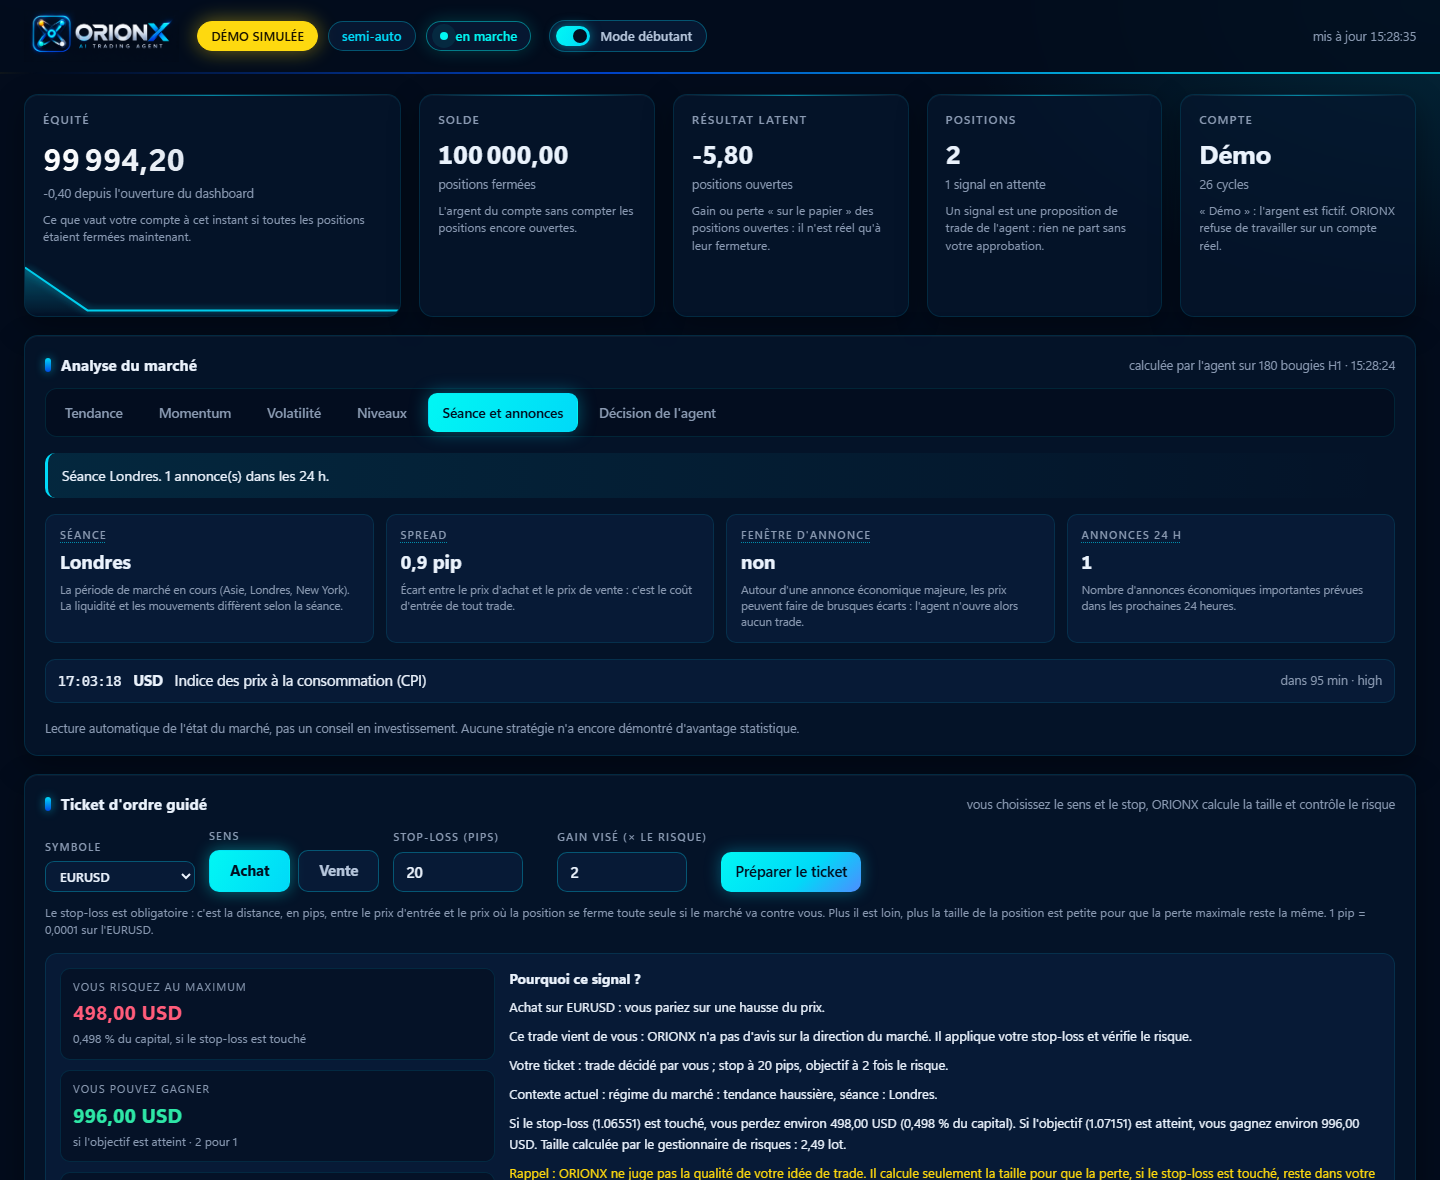
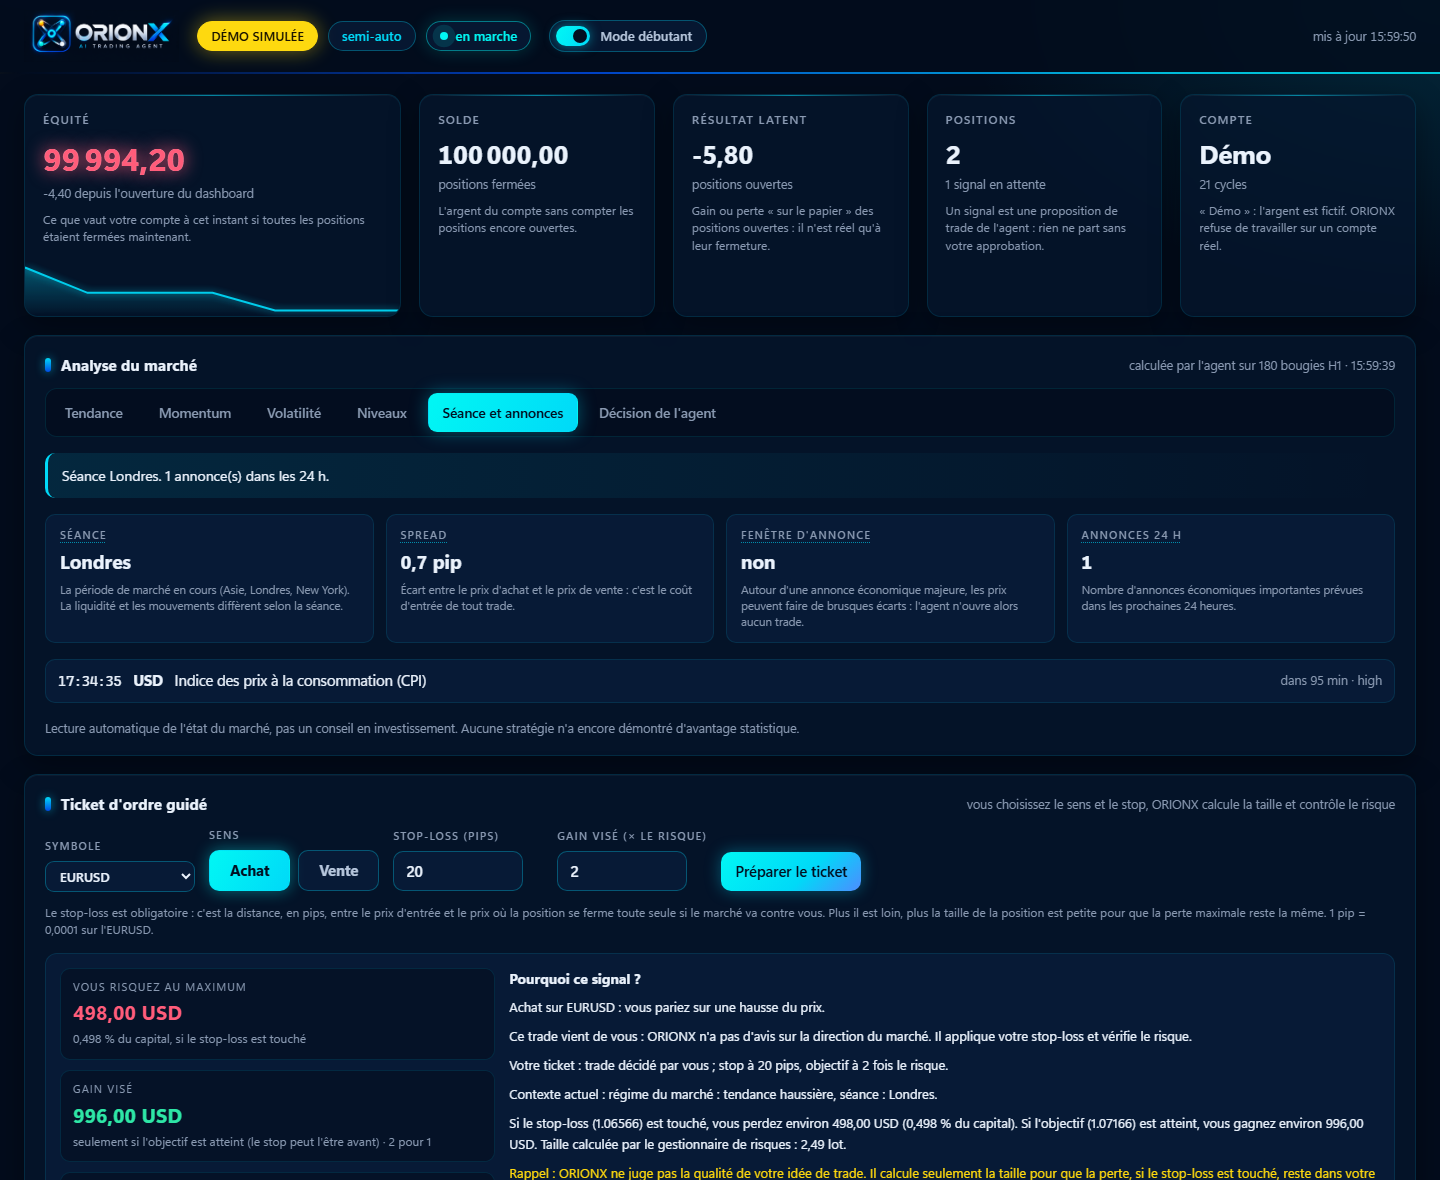
deploy: libellé « Gain visé » et captures du dashboard à jour
Contenu du dossier site/ de la branche feat/site-honnete (PR #16).

diff --git a/assets/i18n/es.js b/assets/i18n/es.js
@@ -169,7 +169,7 @@
  "analyse-du-marche-en-six": "Análisis del mercado en seis pestañas, ticket de orden guiado, señales explicadas en lenguaje sencillo con los importes en juego.",
  "analyse-du-marche-tendance-momentum": "<strong>Análisis del mercado.</strong> Tendencia, momentum, volatilidad, niveles, sesión y decisión del agente: una lectura del estado del mercado, nunca un consejo.",
  "ticket-d-ordre-guide-vous": "<strong>Ticket de orden guiado.</strong> Usted elige el sentido y el stop; ORIONX calcula el tamaño, muestra lo que arriesga y verifica sus límites.",
- "signaux-expliques-pourquoi-ce-signal": "<strong>Señales explicadas.</strong> Por qué esta señal, cuánto arriesga, cuánto puede ganar y el veredicto del gestor de riesgos.",
+ "signaux-expliques-pourquoi-ce-signal": "<strong>Señales explicadas.</strong> Por qué esta señal, lo máximo que puede perder, la ganancia objetivo si sale bien (nunca garantizada) y el veredicto del gestor de riesgos.",
  "donnees-de-demonstration-simulees-le": "Datos de demostración simulados. El panel está disponible por ahora solo en francés.",
  "comment-ca-marche": "Cómo funciona",
  "trois-etapes-zero-boite-noire": "Tres pasos, <span class=\"grad\">cero caja negra</span>.",

diff --git a/assets/i18n/en.js b/assets/i18n/en.js
@@ -169,7 +169,7 @@
  "analyse-du-marche-en-six": "Market analysis in six tabs, guided order ticket, signals explained in plain language with the amounts at stake.",
  "analyse-du-marche-tendance-momentum": "<strong>Market analysis.</strong> Trend, momentum, volatility, levels, session and the agent's decision: a reading of the state of the market, never advice.",
  "ticket-d-ordre-guide-vous": "<strong>Guided order ticket.</strong> You choose the direction and the stop; ORIONX calculates the size, shows what you risk and checks your limits.",
- "signaux-expliques-pourquoi-ce-signal": "<strong>Explained signals.</strong> Why this signal, how much you risk, how much you can gain, and the risk manager's verdict.",
+ "signaux-expliques-pourquoi-ce-signal": "<strong>Explained signals.</strong> Why this signal, the most you can lose, the target gain if it works (never guaranteed), and the risk manager's verdict.",
  "donnees-de-demonstration-simulees-le": "Simulated demonstration data. The dashboard is currently available in French only.",
  "comment-ca-marche": "How it works",
  "trois-etapes-zero-boite-noire": "Three steps, <span class=\"grad\">zero black box</span>.",

diff --git a/index.html b/index.html
@@ -137,7 +137,7 @@
           </figure>
           <figure class="shot reveal">
             <img data-i18n-attr="alt:signal-en-attente-avec-la" src="assets/galerie-signal.png" width="930" height="600" loading="lazy" alt="Signal en attente avec la carte Pourquoi ce signal : perte maximale, gain visé, taille du lot et verdict du gestionnaire de risques.">
-            <figcaption data-i18n="signaux-expliques-pourquoi-ce-signal"><strong>Signaux expliqués.</strong> Pourquoi ce signal, combien vous risquez, combien vous pouvez gagner, et le verdict du gestionnaire de risques.</figcaption>
+            <figcaption data-i18n="signaux-expliques-pourquoi-ce-signal"><strong>Signaux expliqués.</strong> Pourquoi ce signal, combien vous risquez au maximum, le gain visé s'il réussit (sans aucune garantie), et le verdict du gestionnaire de risques.</figcaption>
           </figure>
         </div>
         <p data-i18n="donnees-de-demonstration-simulees-le" class="caption center">Données de démonstration simulées. Le tableau de bord est actuellement disponible en français.</p>
